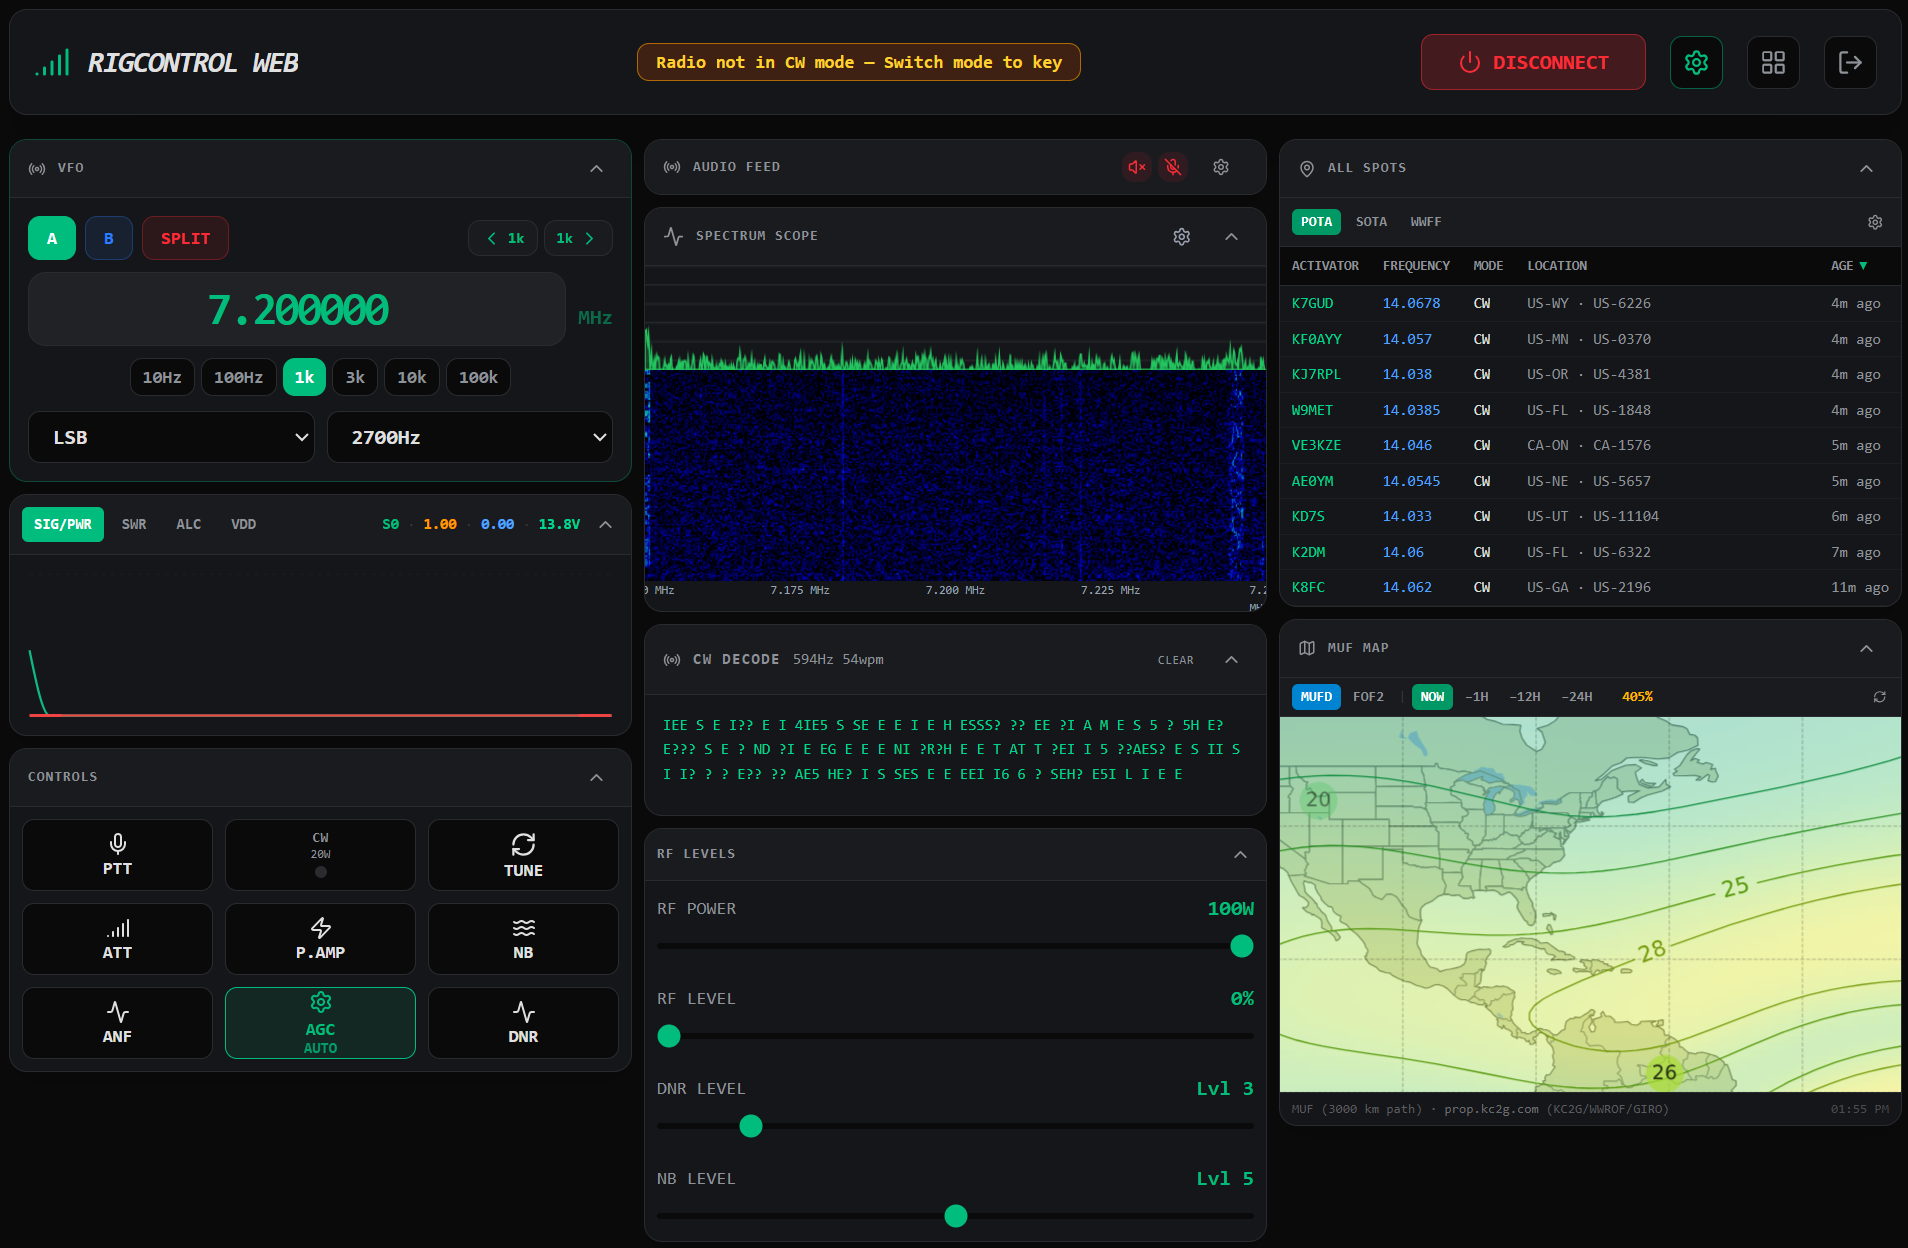
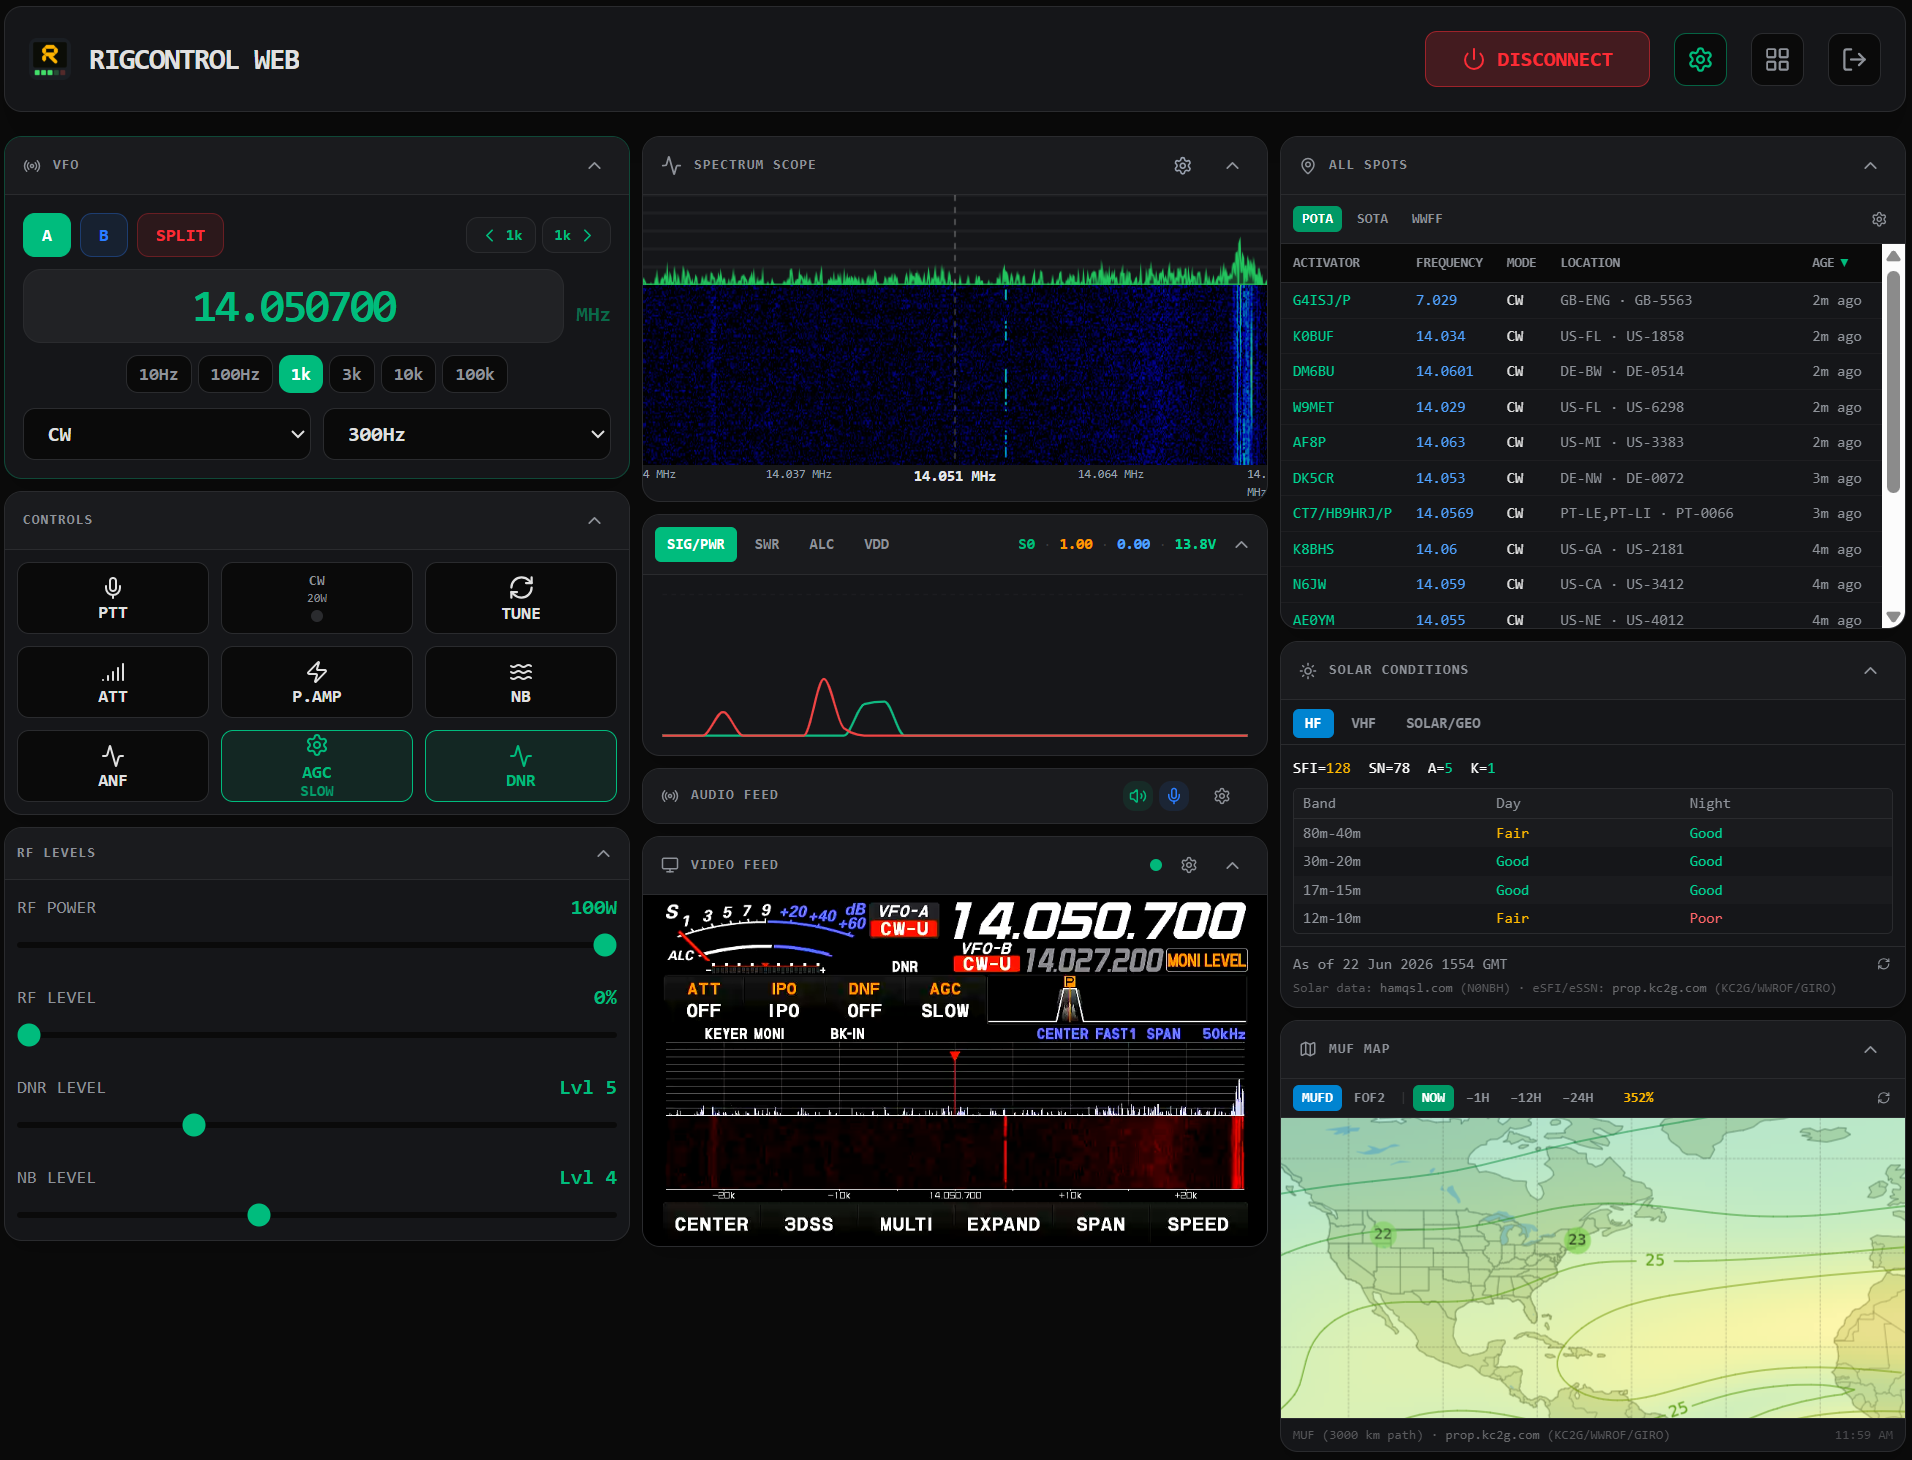
feat: add panel screenshots to GitHub Pages and update README images
Replaces the features grid with a panel-by-panel showcase showing each
panel's screenshot alongside a brief description. Updates README to
use 1.0.0 compact and phone view screenshots.

diff --git a/docs/index.html b/docs/index.html
@@ -48,55 +48,120 @@
     </div>
   </div>
 
-  <!-- Features -->
+  <!-- Panels -->
   <section id="features">
-    <div class="section-label">Features</div>
+    <div class="section-label">Panels</div>
     <h2 class="section-title">Everything you need for remote operation</h2>
-    <div class="features-grid">
-      <div class="feature-card">
-        <span class="feature-icon" aria-hidden="true">&#x1F4FB;</span>
-        <h3>Full Rig Control</h3>
-        <p>Frequency, mode, bandwidth, VFO, split, PTT, and raw command access through Hamlib's rigctld. Support for 200+ radio models.</p>
+
+    <div class="panel-row">
+      <img src="images/vfo.png" alt="VFO Panel" class="panel-img">
+      <div class="panel-text">
+        <h3>VFO</h3>
+        <p>Tune your radio with configurable step sizes from 10 Hz to 100 kHz. VFO A/B switching, split operation, and mode/bandwidth selection.</p>
       </div>
-      <div class="feature-card">
-        <span class="feature-icon" aria-hidden="true">&#x1F3A7;</span>
-        <h3>Bidirectional Audio</h3>
-        <p>Low-latency Opus-compressed audio streaming. Hear the radio and transmit with your mic from any browser on your network.</p>
+    </div>
+
+    <div class="panel-row reverse">
+      <img src="images/controls.png" alt="Controls Panel" class="panel-img">
+      <div class="panel-text">
+        <h3>Controls</h3>
+        <p>One-tap PTT, TUNE, ATT, pre-amp, noise blanker, ANF, AGC, and DNR. Power output and CW mode shown at a glance.</p>
       </div>
-      <div class="feature-card">
-        <span class="feature-icon" aria-hidden="true">&#x1F4F9;</span>
-        <h3>Live Video</h3>
-        <p>Browser-native H.264 video streaming from the Electron host to remote clients. See your radio's front panel in real time.</p>
+    </div>
+
+    <div class="panel-row">
+      <img src="images/signal-meter.png" alt="Signal Meter" class="panel-img">
+      <div class="panel-text">
+        <h3>Signal Meter</h3>
+        <p>Live S-meter, SWR, ALC, and VDD traces on a scrolling chart. Tabbed views let you watch the metric that matters.</p>
       </div>
-      <div class="feature-card">
-        <span class="feature-icon" aria-hidden="true">&#x1F4C8;</span>
+    </div>
+
+    <div class="panel-row reverse">
+      <img src="images/rf-levels.png" alt="RF Levels Panel" class="panel-img">
+      <div class="panel-text">
+        <h3>RF Levels</h3>
+        <p>Adjust RF power, RF gain level, DNR level, and noise blanker level with drag sliders.</p>
+      </div>
+    </div>
+
+    <div class="panel-row">
+      <img src="images/spectrum-scope.png" alt="Spectrum Scope" class="panel-img">
+      <div class="panel-text">
         <h3>Spectrum Scope</h3>
-        <p>Live waterfall and spectrum display via Hamlib UDP multicast (Icom) or direct USB-SPI from the Yaesu FT-710's built-in FT4222H chip.</p>
+        <p>Live panadapter and waterfall display. Supports Hamlib UDP multicast (Icom) and direct USB-SPI from the Yaesu FT-710. Click anywhere on the scope to tune.</p>
       </div>
-      <div class="feature-card">
-        <span class="feature-icon" aria-hidden="true">&#x1F511;</span>
-        <h3>CW Keyer &amp; Decoder</h3>
-        <p>Server-side iambic keyer (A/B/straight) with client-side sidetone. GGMorse WASM decoder displays received CW text in real time.</p>
+    </div>
+
+    <div class="panel-row reverse">
+      <img src="images/audio-waterfall.png" alt="Audio Waterfall" class="panel-img">
+      <div class="panel-text">
+        <h3>Audio Waterfall</h3>
+        <p>Visualize received audio as a spectrum plot and scrolling waterfall. Useful for spotting CW signals and tuning to the correct audio frequency.</p>
       </div>
-      <div class="feature-card">
-        <span class="feature-icon" aria-hidden="true">&#x1F4CD;</span>
+    </div>
+
+    <div class="panel-row">
+      <img src="images/audio-feed.png" alt="Audio Feed" class="panel-img">
+      <div class="panel-text">
+        <h3>Audio Feed</h3>
+        <p>Bidirectional Opus audio streaming. Mute/unmute speaker and mic independently. Join from any browser on your network.</p>
+      </div>
+    </div>
+
+    <div class="panel-row reverse">
+      <img src="images/video-feed.png" alt="Video Feed" class="panel-img">
+      <div class="panel-text">
+        <h3>Video Feed</h3>
+        <p>See your radio's front panel remotely via H.264 video. Feed an HDMI capture card into the host and stream to any browser client.</p>
+      </div>
+    </div>
+
+    <div class="panel-row">
+      <img src="images/all-spots.png" alt="Spots Panel" class="panel-img">
+      <div class="panel-text">
         <h3>POTA / SOTA / WWFF Spots</h3>
-        <p>Live activator spots with band, mode, and age filtering. Click-to-tune jumps your VFO directly to spotted frequencies.</p>
+        <p>Live activator spots with band, mode, and age filtering. Click any spot to instantly tune the VFO and set the mode.</p>
       </div>
-      <div class="feature-card">
-        <span class="feature-icon" aria-hidden="true">&#x2600;&#xFE0F;</span>
-        <h3>Solar &amp; Propagation</h3>
-        <p>HF band conditions, VHF phenomena, SFI, SSN, and MUF map from hamqsl.com and prop.kc2g.com. Know what's open before you tune.</p>
+    </div>
+
+    <div class="panel-row reverse">
+      <img src="images/cw-decode.png" alt="CW Decode Panel" class="panel-img">
+      <div class="panel-text">
+        <h3>CW Decoder</h3>
+        <p>Real-time Morse code decoding via GGMorse WASM. Shows decoded text, estimated pitch, and speed in WPM.</p>
       </div>
-      <div class="feature-card">
-        <span class="feature-icon" aria-hidden="true">&#x1F4BB;</span>
-        <h3>Configurable Layout</h3>
-        <p>Drag-and-drop panel grid that adapts from desktop to phone. Add, remove, and rearrange panels to build your operating view.</p>
+    </div>
+
+    <div class="panel-row">
+      <img src="images/solar-conditions.png" alt="Solar Conditions" class="panel-img">
+      <div class="panel-text">
+        <h3>Solar Conditions</h3>
+        <p>HF band conditions (day/night), VHF propagation alerts, SFI, sunspot number, A-index, and K-index from hamqsl.com. Know what's open before you tune.</p>
       </div>
-      <div class="feature-card">
-        <span class="feature-icon" aria-hidden="true">&#x1F512;</span>
-        <h3>Secure by Default</h3>
-        <p>Auto-generated HTTPS with EC P-256 certificates covering localhost and all LAN IPs. No manual TLS setup required.</p>
+    </div>
+
+    <div class="panel-row reverse">
+      <img src="images/muf-map.png" alt="MUF Map" class="panel-img">
+      <div class="panel-text">
+        <h3>MUF Map</h3>
+        <p>Zoomable world propagation map from prop.kc2g.com. MUFD and foF2 views with historical time slots. Scroll-zoom, drag-pan, and pinch-to-zoom.</p>
+      </div>
+    </div>
+
+    <div class="panel-row">
+      <img src="images/command-console.png" alt="Command Console" class="panel-img">
+      <div class="panel-text">
+        <h3>Command Console</h3>
+        <p>Send raw Hamlib commands directly to rigctld and see the responses. Useful for debugging and advanced rig control.</p>
+      </div>
+    </div>
+
+    <div class="panel-row reverse">
+      <img src="images/settings-rigctld.png" alt="Settings — rigctld" class="panel-img panel-img-tall">
+      <div class="panel-text">
+        <h3>Settings</h3>
+        <p>Configure rigctld connection, rig model, serial port, CW keyer mode and speed, sidetone, and key bindings. Manage user accounts, sessions, and audit logs from the Admin tab.</p>
       </div>
     </div>
   </section>

diff --git a/docs/style.css b/docs/style.css
@@ -235,44 +235,47 @@ section {
   letter-spacing: -0.015em;
 }
 
-/* ---- FEATURES ---- */
+/* ---- PANELS SHOWCASE ---- */
 
-.features-grid {
-  display: grid;
-  grid-template-columns: repeat(auto-fit, minmax(300px, 1fr));
-  gap: 20px;
+.panel-row {
+  display: flex;
+  align-items: center;
+  gap: 40px;
+  margin-bottom: 48px;
 }
 
-.feature-card {
-  background: var(--bg-card);
+.panel-row.reverse {
+  flex-direction: row-reverse;
+}
+
+.panel-img {
+  width: 50%;
+  max-width: 520px;
+  border-radius: 10px;
   border: 1px solid var(--border);
-  border-radius: 12px;
-  padding: 28px;
-  transition: background 0.2s, border-color 0.2s;
+  box-shadow: 0 4px 24px rgba(0, 0, 0, 0.35);
+  flex-shrink: 0;
 }
 
-.feature-card:hover {
-  background: var(--bg-card-hover);
-  border-color: #2a3a4e;
+.panel-img-tall {
+  width: 280px;
 }
 
-.feature-icon {
-  font-size: 28px;
-  margin-bottom: 14px;
-  display: block;
+.panel-text {
+  flex: 1;
 }
 
-.feature-card h3 {
-  font-size: 17px;
-  font-weight: 600;
+.panel-text h3 {
+  font-size: 20px;
+  font-weight: 700;
   color: #fff;
   margin-bottom: 8px;
 }
 
-.feature-card p {
-  font-size: 14px;
+.panel-text p {
+  font-size: 15px;
   color: var(--text-muted);
-  line-height: 1.6;
+  line-height: 1.7;
 }
 
 /* ---- TECH SECTION ---- */
@@ -377,7 +380,14 @@ section {
     font-size: 13px;
   }
 
-  .features-grid {
-    grid-template-columns: 1fr;
+  .panel-row,
+  .panel-row.reverse {
+    flex-direction: column;
+  }
+
+  .panel-img,
+  .panel-img-tall {
+    width: 100%;
+    max-width: 100%;
   }
 }

diff --git a/README.md b/README.md
@@ -21,10 +21,10 @@ Developers who want to run from source will find build instructions in the [Deve
 ## Screenshots
 
 ### Compact View (Desktop)
-![RigControl Web — Compact View](assets/compact%20view%2006.11.2026.png)
+![RigControl Web — Compact View](assets/1.0.0.screenshots/compact-view-1.0.0.png)
 
 ### Phone View (Mobile)
-<img src="assets/phone%20view%[phone redacted].png" alt="RigControl Web — Phone View" width="50%">
+<img src="assets/1.0.0.screenshots/phone%20view%[phone redacted].png" alt="RigControl Web — Phone View" width="50%">
 
 ## Features
 